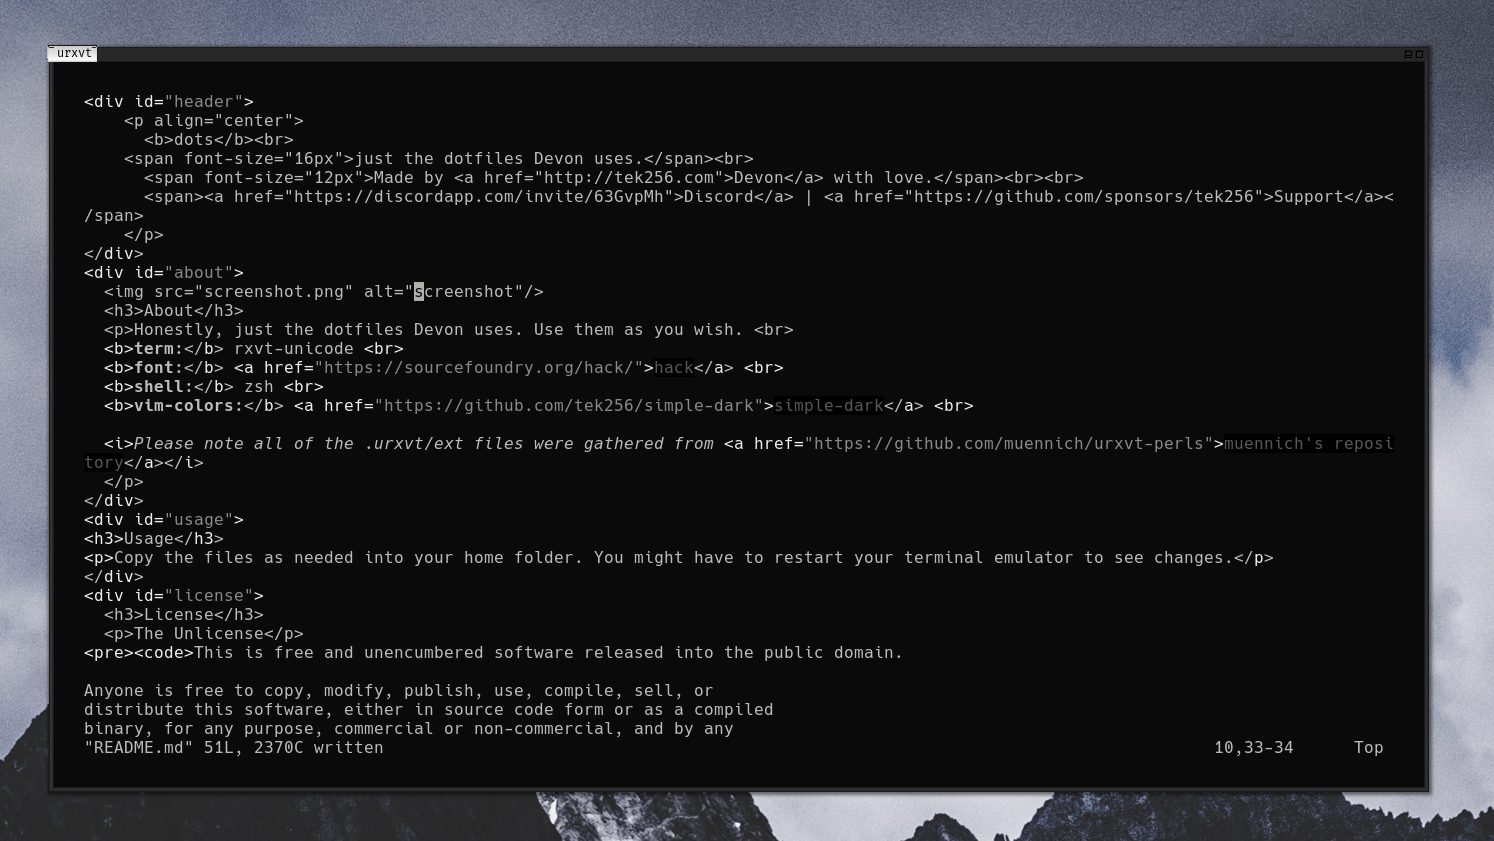
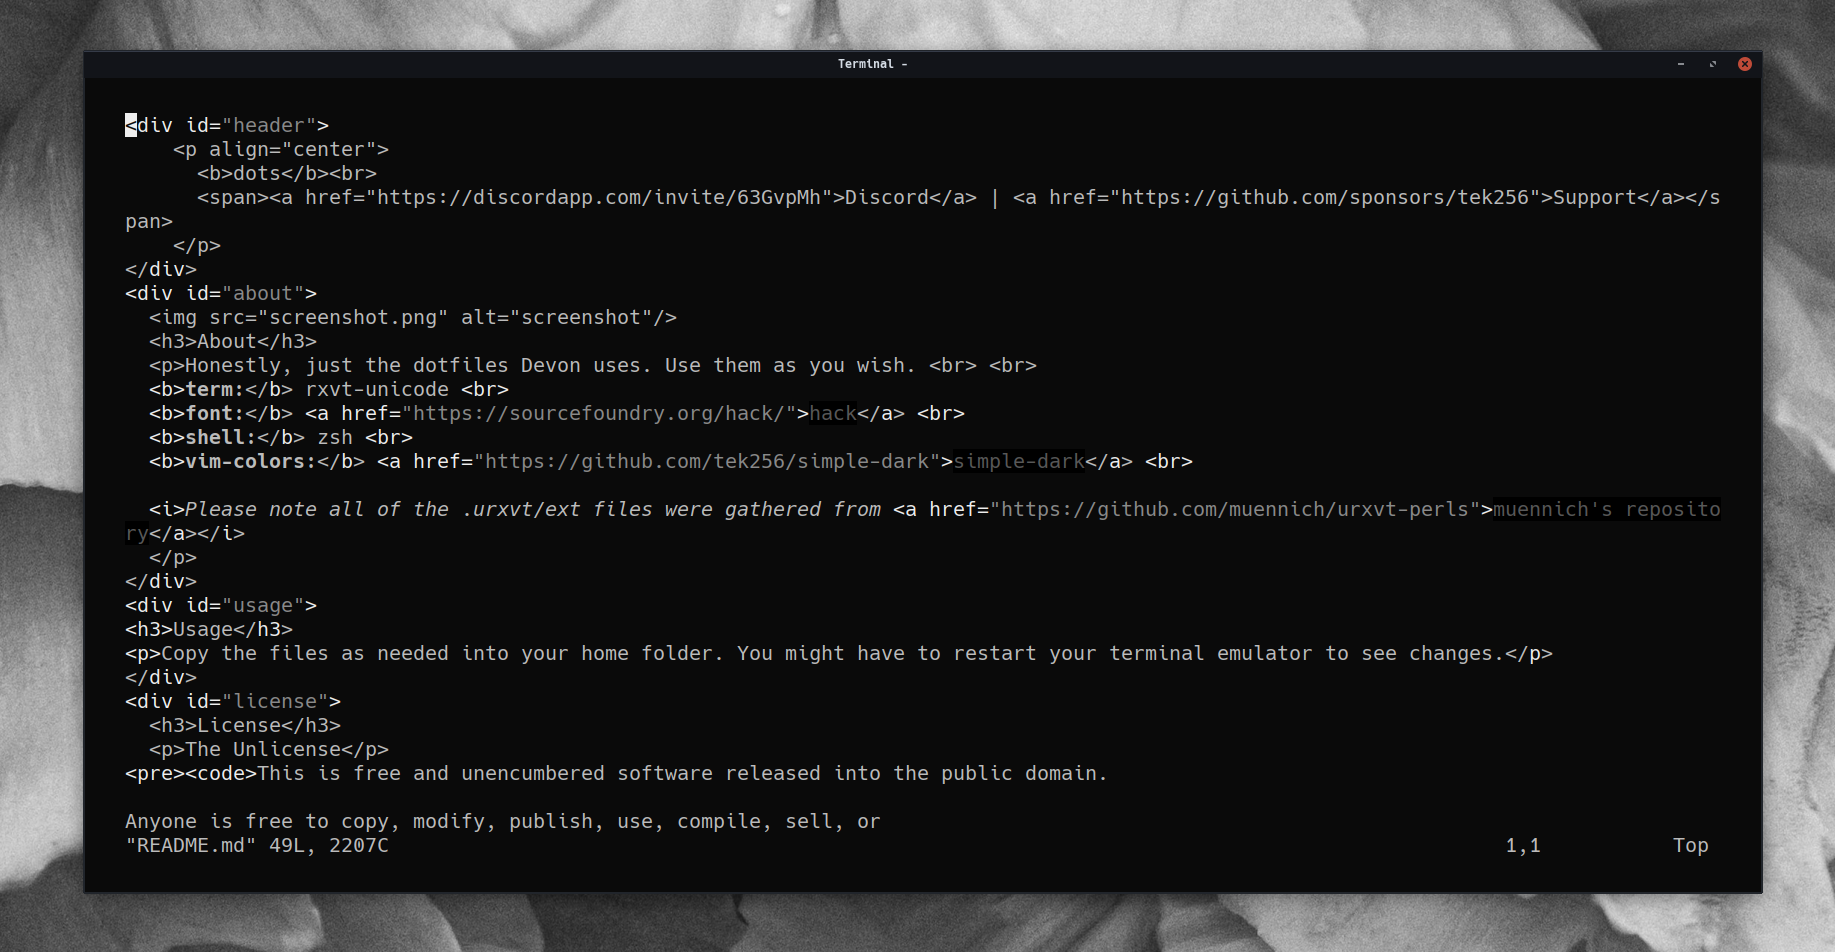
Updated vimrc, zshrc, and screenshot

Changed region(s): [[0.0, 0.0, 1.0, 1.0], [0.8005, 0.8656, 0.8621, 0.8966], [0.8929, 0.8656, 0.9237, 0.8966]]

diff --git a/README.md b/README.md
@@ -8,12 +8,10 @@
 	<img src="screenshot.png" alt="screenshot"/>
 	<h3>About</h3>
 	<p>Honestly, just the dotfiles Devon uses. Use them as you wish. <br> <br>
-  <b>term:</b> rxvt-unicode <br>
+  <b>term:</b> xfce4-terminal<br>
   <b>font:</b> <a href="https://sourcefoundry.org/hack/">hack</a> <br>
   <b>shell:</b> zsh <br>
-  <b>vim-colors:</b> <a href="https://github.com/tek256/simple-dark">simple-dark</a> <br>
-
-  <i>Please note all of the .urxvt/ext files were gathered from <a href="https://github.com/muennich/urxvt-perls">muennich's repository</a></i>
+  <b>colors:</b> <a href="https://github.com/tek256/simple-dark">simple-dark</a> <br>
 	</p>
 </div>
 <div id="usage">
